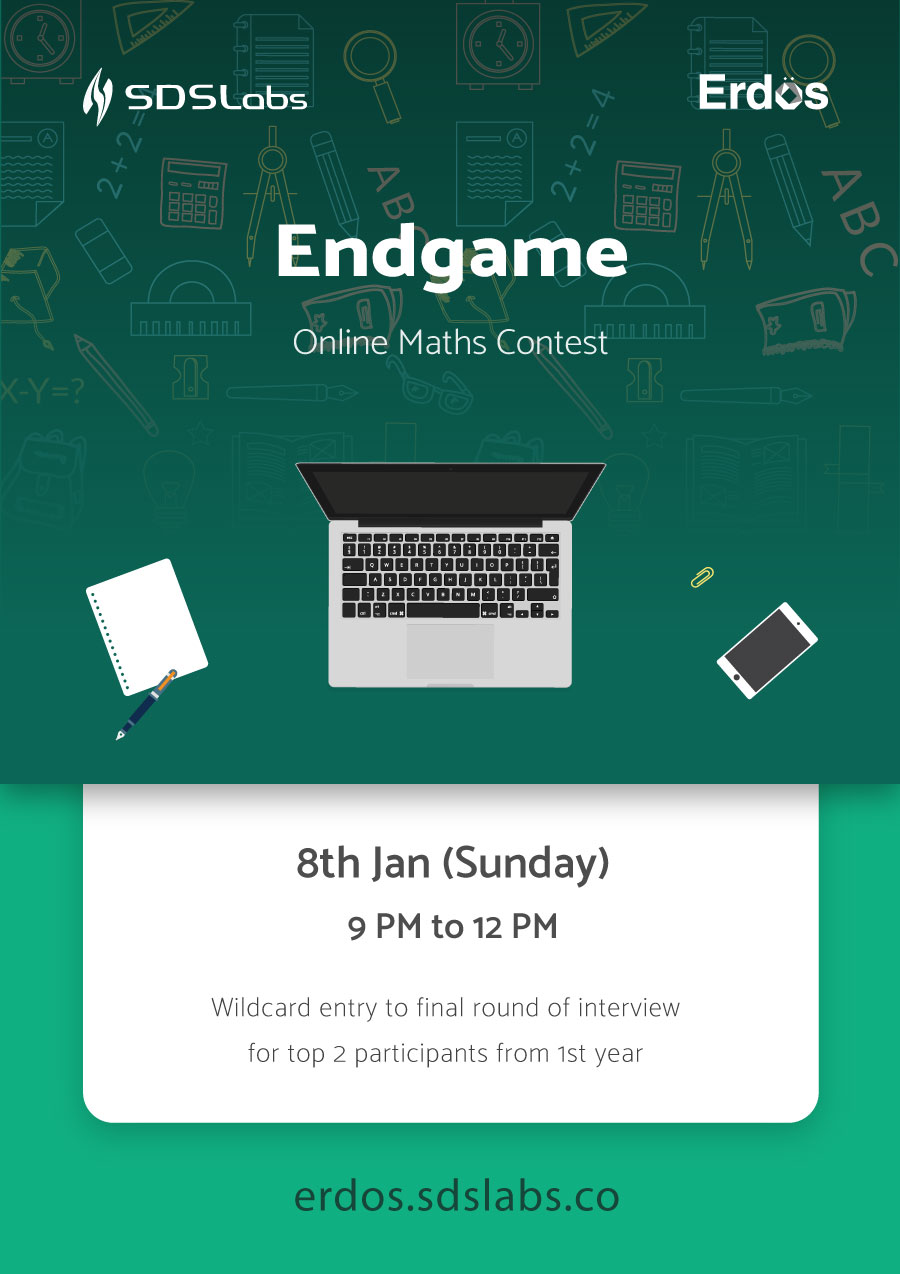
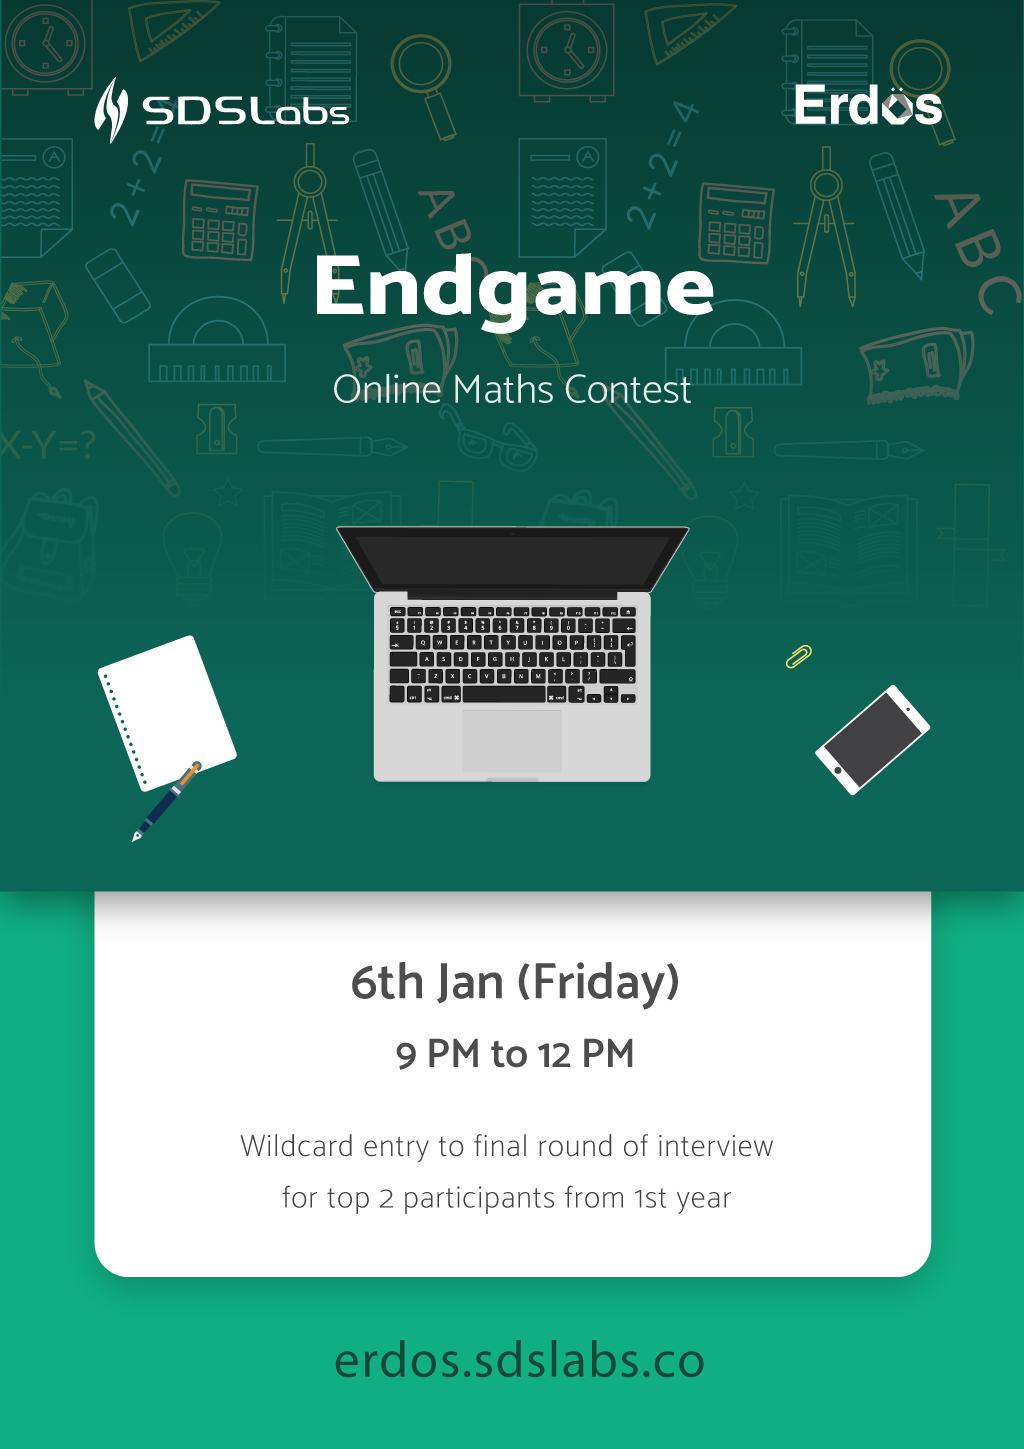
Change poster

diff --git a/src/index.html b/src/index.html
@@ -2,8 +2,8 @@
 	<head>
 		<meta name="description" content="SDSLabs goes Recruiting.">
 
-		<meta property="og:title" content="SDSLabs Recruitments 2017" />
-		<meta property="og:site_name" content="SDSLabs Recruitments" />
+		<meta property="og:title" content="SDSLabs Recruitment 2017" />
+		<meta property="og:site_name" content="SDSLabs Recruitment" />
 		<meta property="og:url" content="https://join.sdslabs.co/" />
 		<meta property="og:image" content="https://join.sdslabs.co/images/teaser1-thumb.jpg" />
 		<meta property="og:type" content="website" />
@@ -22,7 +22,7 @@
 				</div>
 				<a class="navbar-item-link" data_target="0" href="/">	
 					<div class="logo">
-						<img src="/images/logo.png"> <p>Recruitments 2017</p>
+						<img src="/images/logo.png"> <p>Recruitment 2017</p>
 					</div>
 				</a>	
 				<div class="navbar">
@@ -45,7 +45,7 @@
 					<div class="recruit-desc-container col-sm-5">
 						<div class="recruit-desc">
 							<img class="recruit-desc-logo" src="/images/logo.png">
-							<h1 class="recruit-desc-heading">Recruitments<br/> 2017</h1>
+							<h1 class="recruit-desc-heading">Recruitment<br/> 2017</h1>
 							<p class="recruit-desc-text">
 								SDSLabs is a student group that makes technological products at IIT Roorkee. We are innovating in a lot of technical areas and aim to make lives easier for everyone. Promote innovation through joining us.
 							</p>
@@ -161,7 +161,7 @@
 								</div>
 								<div class="timeline-item-list-container">	
 									<ul class="timeline-item-list">
-										<li>January 11th, 2017 Wednesday</li>
+										<li>January 13th, 2017 Wednesday</li>
 										<li>6:30 PM onwards</li>
 										<li>SDSLabs, Hobbies Club</li>
 									</ul>
@@ -218,7 +218,13 @@
 						<div class="procedure-desc-item col-sm-6">
 							<h3 class="procedure-item-heading">Competition Posters</h3>
 							<div class="challenges-gallery">
-								
+								<div class="challenges-gallery-item-container">
+									<div class="challenges-gallery-item">
+										<div class="content">
+				    						<a class="fancybox" rel="group" href="/images/challenges3.jpg"><img class="content" src="/images/challenges3.jpg"></a>
+										</div>
+									</div>
+								</div>
 								<div class="challenges-gallery-item-container">
 									<div class="challenges-gallery-item">
 										<div class="content">
@@ -230,13 +236,6 @@
 									<div class="challenges-gallery-item">
 										<div class="content">
 				    						<a class="fancybox" rel="group" href="/images/challenges1.jpg"><img class="content" src="/images/challenges1.jpg"></a>
-										</div>
-									</div>
-								</div>
-								<div class="challenges-gallery-item-container">
-									<div class="challenges-gallery-item">
-										<div class="content">
-				    						<a class="fancybox" rel="group" href="/images/challenges3.jpg"><img class="content" src="/images/challenges3.jpg"></a>
 										</div>
 									</div>
 								</div>
